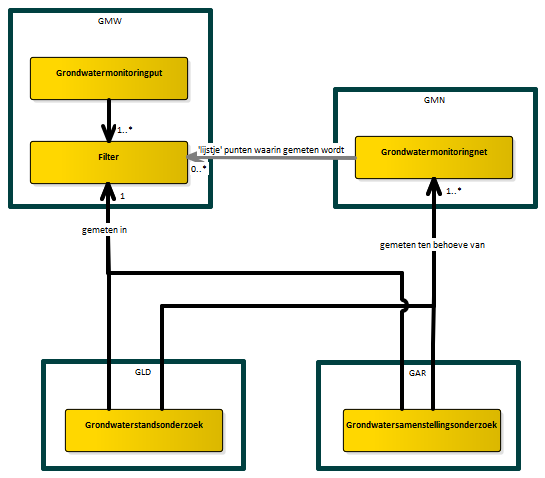
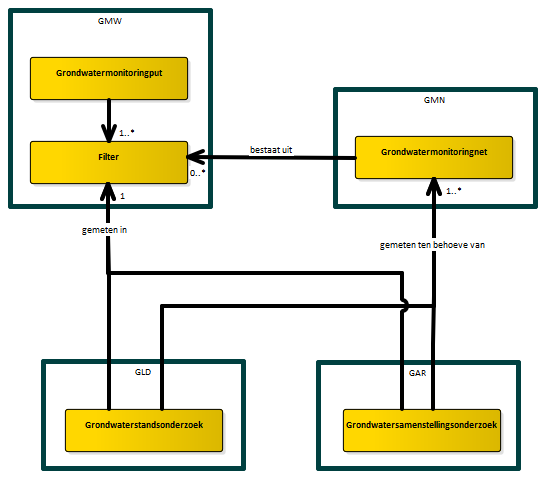
Conceptualmodel-GrondwatermonitoringnetGMN-0.1-0-20180301-20190225-172520

Changed region(s): [[0.3431, 0.2929, 0.655, 0.3808], [0.2183, 0.2636, 0.2495, 0.2929]]

diff --git a/data/GMN-cat.html b/data/GMN-cat.html
@@ -2,7 +2,7 @@
 <section id="cat" class="normative">
    <h2>Catalogus</h2>
    <p><b>Deze tekst is normatief.</b>
-      <!--Conceptualmodel-GrondwatermonitoringnetGMN-0.1-0-20180301-20190222-161236 imvertor --></p>
+      <!--Conceptualmodel-GrondwatermonitoringnetGMN-0.1-0-20180301-20190225-172520 imvertor --></p>
    <div class="imageinfo overview"><img src="data/Images/EAID_16A72207_068F_4cb7_8848_6A51D3D09C6C.png" usemap="#imagemap-EAID_16A72207_068F_4cb7_8848_6A51D3D09C6C"><map name="imagemap-EAID_16A72207_068F_4cb7_8848_6A51D3D09C6C">
          <area shape="rect" coords="705,339,963,220" alt="" href="#graph_EAID_FD4CB41D_3FA7_46c9_81A9_44C8869F16A6">
          <area shape="rect" coords="356,151,614,22" alt="" href="#graph_EAID_AF36F25F_EDC0_4e99_A937_DF9E6889C6F0">
@@ -489,7 +489,9 @@
                </tr>
                <tr>
                   <th>Definitie</th>
-                  <td>De gegevens die het grondwatermonitoringnet identificeren.</td>
+                  <td>Een locatie waar ten behoeve van het grondwatermonitoringnet metingen aan grondwater
+                     op een bepaalde diepte gedaan worden.
+                  </td>
                </tr>
                <tr>
                   <th>Herkomst definitie</th>
@@ -3009,7 +3011,7 @@
 <section id="lis" class="normative">
    <h2>Inhoud van enumeraties en codelijsten</h2>
    <p><b>Deze tekst is normatief.</b>
-      <!--Conceptualmodel-GrondwatermonitoringnetGMN-0.1-0-20180301-20190222-161236 imvertor --></p><a class="anchor" name="graph_EAID_46C32AAB_3DBB_4622_947B_B99903A2D1ED"></a><a class="anchor" name="detail_class_BROGMN_GrondwaterAspect"></a><section id="detail_class_BROGMN_GrondwaterAspect">
+      <!--Conceptualmodel-GrondwatermonitoringnetGMN-0.1-0-20180301-20190225-172520 imvertor --></p><a class="anchor" name="graph_EAID_46C32AAB_3DBB_4622_947B_B99903A2D1ED"></a><a class="anchor" name="detail_class_BROGMN_GrondwaterAspect"></a><section id="detail_class_BROGMN_GrondwaterAspect">
       <h3>Codelijst details GrondwaterAspect</h3>
       
       <table>
@@ -3386,34 +3388,39 @@
       </table>
       
       <table>
-         <colgroup width="10%"></colgroup>
          <colgroup width="30%"></colgroup>
-         <colgroup width="60%"></colgroup>
+         <colgroup width="10%"></colgroup>
+         <colgroup width="10%"></colgroup>
+         <colgroup width="50%"></colgroup>
          <tbody>
             <tr>
-               <th>Code</th>
                <th>Naam</th>
+               <th>IMBRO</th>
+               <th>IMBRO/A</th>
                <th>Definitie</th>
             </tr>
             <tr>
-               <td></td>
                <td>geregistreerd</td>
+               <td>✔</td>
+               <td>✔</td>
                <td>Het registeren van de gegevens van het object is gestart. De gegevens uit het eerste
                   brondocument zijn in de registratie ondergrond vastgelegd. Er zijn daarna geen nieuwe
                   gegevens geregistreerd.
                </td>
             </tr>
             <tr>
-               <td></td>
                <td>aangevuld</td>
+               <td>✔</td>
+               <td>✔</td>
                <td>Het registeren van de gegevens van het object heeft na de start van de registratie
                   een vervolg gekregen. De gegevens in de registratie ondergrond zijn minimaal een keer
                   aangevuld met nieuwe gegevens.
                </td>
             </tr>
             <tr>
-               <td></td>
                <td>voltooid</td>
+               <td>✔</td>
+               <td>✔</td>
                <td>Het registeren van de gegevens van het object is voltooid. Alle gegevens zijn in de
                   registratie ondergrond vastgelegd en er kunnen geen nieuwe gegevens meer worden geregistreerd.
                </td>
@@ -3438,23 +3445,27 @@
       </table>
       
       <table>
-         <colgroup width="10%"></colgroup>
          <colgroup width="30%"></colgroup>
-         <colgroup width="60%"></colgroup>
+         <colgroup width="10%"></colgroup>
+         <colgroup width="10%"></colgroup>
+         <colgroup width="50%"></colgroup>
          <tbody>
             <tr>
-               <th>Code</th>
                <th>Naam</th>
+               <th>IMBRO</th>
+               <th>IMBRO/A</th>
                <th>Definitie</th>
             </tr>
             <tr>
-               <td></td>
                <td>ja</td>
+               <td>✔</td>
+               <td>✔</td>
                <td>Ja</td>
             </tr>
             <tr>
-               <td></td>
                <td>nee</td>
+               <td>✔</td>
+               <td>✔</td>
                <td>Nee</td>
             </tr>
          </tbody>
@@ -3478,26 +3489,30 @@
       </table>
       
       <table>
-         <colgroup width="10%"></colgroup>
          <colgroup width="30%"></colgroup>
-         <colgroup width="60%"></colgroup>
+         <colgroup width="10%"></colgroup>
+         <colgroup width="10%"></colgroup>
+         <colgroup width="50%"></colgroup>
          <tbody>
             <tr>
-               <th>Code</th>
                <th>Naam</th>
+               <th>IMBRO</th>
+               <th>IMBRO/A</th>
                <th>Definitie</th>
             </tr>
             <tr>
-               <td></td>
                <td>IMBRO</td>
+               <td>✔</td>
+               <td>✔</td>
                <td>De strikte kwaliteitseis die geldt voor alle objecten die actief zijn op of na het
                   moment dat het registreren van grondwatermonitoringnetten in de basisregistratie ondergrond
                   is gestart. Een object is actief tussen de begindatum en de einddatum.
                </td>
             </tr>
             <tr>
-               <td></td>
                <td>IMBRO/A</td>
+               <td>✔</td>
+               <td>✔</td>
                <td>De minder strikte kwaliteitseis die gebruikt kan zijn voor objecten die actief waren
                   tot aan het moment dat het registreren van grondwatermonitoringnetten in de basisregistratie
                   ondergrond is gestart. Een object is actief tussen de begindatum en de einddatum.
@@ -3521,19 +3536,22 @@
       </table>
       
       <table>
-         <colgroup width="10%"></colgroup>
          <colgroup width="30%"></colgroup>
-         <colgroup width="60%"></colgroup>
+         <colgroup width="10%"></colgroup>
+         <colgroup width="10%"></colgroup>
+         <colgroup width="50%"></colgroup>
          <tbody>
             <tr>
-               <th>Code</th>
                <th>Naam</th>
+               <th>IMBRO</th>
+               <th>IMBRO/A</th>
                <th>Definitie</th>
             </tr>
             <tr>
-               <td></td>
                <td>onbekend</td>
-               <td>TODO.</td>
+               <td>✔</td>
+               <td>✔</td>
+               <td>Onbekend.</td>
             </tr>
          </tbody>
       </table>
